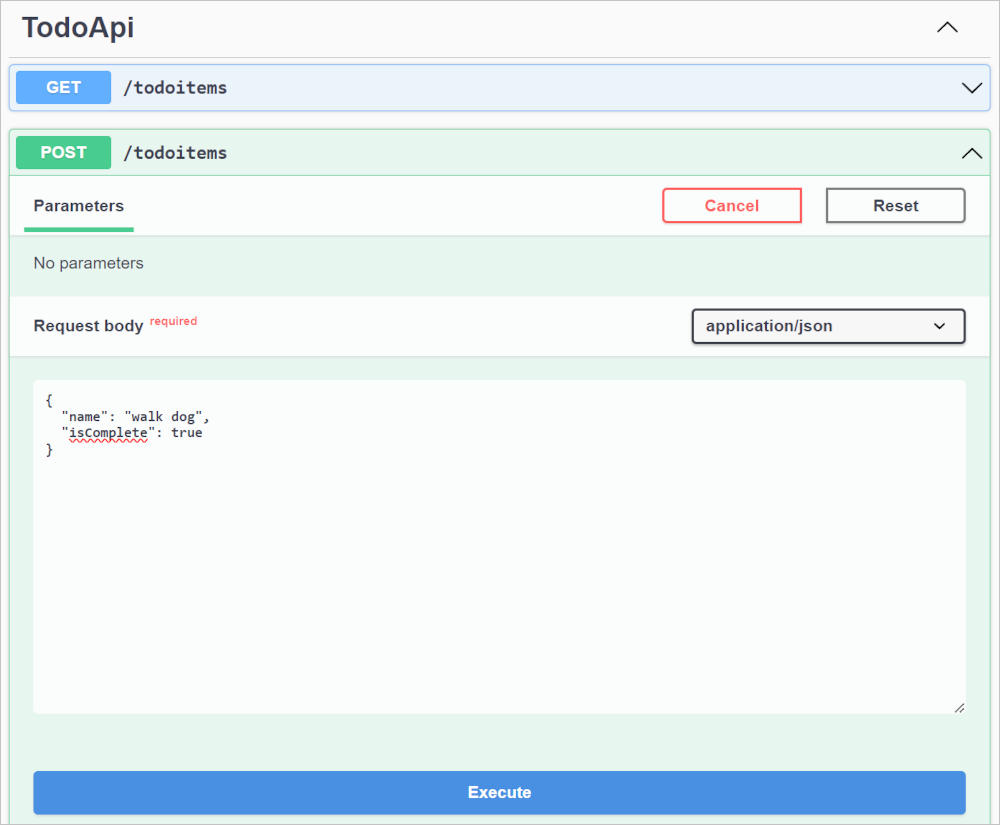
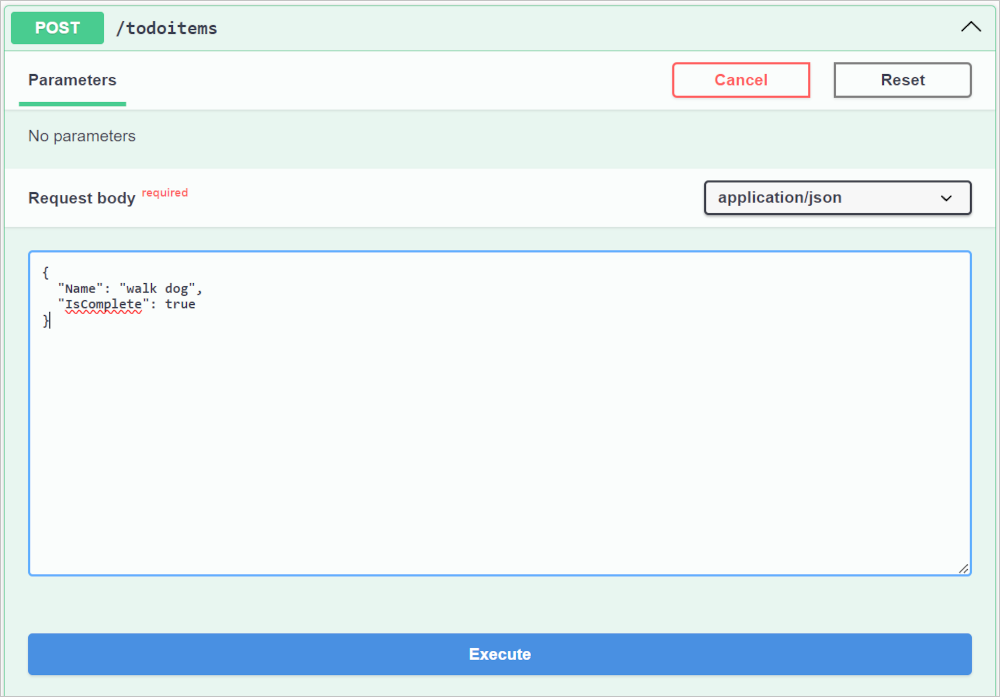
Rewrote and recoded for NSwag instead of Swashbuckle plus updated art

Changed region(s): [[0.0, 0.0, 1.0, 1.0], [0.062, 0.4821, 0.217, 0.5423], [0.93, 0.0, 0.961, 0.0301]]

diff --git a/aspnetcore/tutorials/min-web-api/samples/8.x/todo_SwaggerVersion/Program.cs b/aspnetcore/tutorials/min-web-api/samples/8.x/todo_SwaggerVersion/Program.cs
@@ -12,8 +12,7 @@ app.Run();
 // <snippet_all>
 // <snippet_swagger_add_service>
 // <snippet_swagger_using_statements>
-using Microsoft.OpenApi.Models;
-using Swashbuckle.AspNetCore.Swagger;
+using NSwag.AspNetCore;
 // </snippet_swagger_using_statements>
 using Microsoft.EntityFrameworkCore;
 
@@ -22,18 +21,26 @@ builder.Services.AddDbContext<TodoDb>(opt => opt.UseInMemoryDatabase("TodoList")
 builder.Services.AddDatabaseDeveloperPageExceptionFilter();
 
 builder.Services.AddEndpointsApiExplorer();
-builder.Services.AddSwaggerGen(config =>
+builder.Services.AddOpenApiDocument(config =>
 {
-    config.SwaggerDoc("v1", new OpenApiInfo { Title = "TodoAPI", Version = "v1" });
+    config.DocumentName = "TodoAPI";
+    config.Title = "TodoAPI v1";
+    config.Version = "v1";
 });
 // <snippet_swagger_enable_middleware>
 var app = builder.Build();
 // </snippet_swagger_add_service>
-app.UseSwagger();
-app.UseSwaggerUI(config =>
+if (app.Environment.IsDevelopment())
 {
-    config.SwaggerEndpoint("/swagger/v1/swagger.json", "TodoAPI v1");
-});
+    app.UseOpenApi();
+    app.UseSwaggerUi(config =>
+    {
+        config.DocumentTitle = "TodoAPI";
+        config.Path = "/swagger";
+        config.DocumentPath = "/swagger/{documentName}/swagger.json";
+        config.DocExpansion = "list";
+    });
+}
 // </snippet_swagger_enable_middleware>
 // <snippet_get>
 app.MapGet("/todoitems", async (TodoDb db) =>

diff --git a/aspnetcore/tutorials/min-web-api/samples/8.x/todoDTO_SwaggerVersion/Program.cs b/aspnetcore/tutorials/min-web-api/samples/8.x/todoDTO_SwaggerVersion/Program.cs
@@ -1,6 +1,5 @@
 // <snippet_all>
-using Microsoft.OpenApi.Models;
-using Swashbuckle.AspNetCore.Swagger;
+using NSwag.AspNetCore;
 using Microsoft.EntityFrameworkCore;
 
 var builder = WebApplication.CreateBuilder(args);
@@ -8,18 +7,26 @@ builder.Services.AddDbContext<TodoDb>(opt => opt.UseInMemoryDatabase("TodoList")
 builder.Services.AddDatabaseDeveloperPageExceptionFilter();
 
 builder.Services.AddEndpointsApiExplorer();
-builder.Services.AddSwaggerGen(config =>
+builder.Services.AddOpenApiDocument(config =>
 {
-    config.SwaggerDoc("v1", new OpenApiInfo { Title = "TodoAPI", Version = "v1" });
+    config.DocumentName = "TodoAPI";
+    config.Title = "TodoAPI v1";
+    config.Version = "v1";
 });
 
 var app = builder.Build();
 
-app.UseSwagger();
-app.UseSwaggerUI(config =>
+if (app.Environment.IsDevelopment())
 {
-    config.SwaggerEndpoint("/swagger/v1/swagger.json", "TodoAPI v1");
-});
+    app.UseOpenApi();
+    app.UseSwaggerUi(config =>
+    {
+        config.DocumentTitle = "TodoAPI";
+        config.Path = "/swagger";
+        config.DocumentPath = "/swagger/{documentName}/swagger.json";
+        config.DocExpansion = "list";
+    });
+}
 
 // <snippet_group>
 RouteGroupBuilder todoItems = app.MapGroup("/todoitems");

diff --git a/aspnetcore/tutorials/min-web-api/samples/8.x/todoGroup_SwaggerVersion/Program.cs b/aspnetcore/tutorials/min-web-api/samples/8.x/todoGroup_SwaggerVersion/Program.cs
@@ -1,6 +1,5 @@
 // <snippet_all>
-using Microsoft.OpenApi.Models;
-using Swashbuckle.AspNetCore.Swagger;
+using NSwag.AspNetCore;
 using Microsoft.EntityFrameworkCore;
 
 var builder = WebApplication.CreateBuilder(args);
@@ -8,18 +7,26 @@ builder.Services.AddDbContext<TodoDb>(opt => opt.UseInMemoryDatabase("TodoList")
 builder.Services.AddDatabaseDeveloperPageExceptionFilter();
 
 builder.Services.AddEndpointsApiExplorer();
-builder.Services.AddSwaggerGen(config =>
+builder.Services.AddOpenApiDocument(config =>
 {
-    config.SwaggerDoc("v1", new OpenApiInfo { Title = "TodoAPI", Version = "v1" });
+    config.DocumentName = "TodoAPI";
+    config.Title = "TodoAPI v1";
+    config.Version = "v1";
 });
 
 var app = builder.Build();
 
-app.UseSwagger();
-app.UseSwaggerUI(config =>
+if (app.Environment.IsDevelopment())
 {
-    config.SwaggerEndpoint("/swagger/v1/swagger.json", "TodoAPI v1");
-});
+    app.UseOpenApi();
+    app.UseSwaggerUi(config =>
+    {
+        config.DocumentTitle = "TodoAPI";
+        config.Path = "/swagger";
+        config.DocumentPath = "/swagger/{documentName}/swagger.json";
+        config.DocExpansion = "list";
+    });
+}
 
 // <snippet_group>
 var todoItems = app.MapGroup("/todoitems");

diff --git a/aspnetcore/tutorials/min-web-api.md b/aspnetcore/tutorials/min-web-api.md
@@ -228,23 +228,23 @@ This tutorial uses [Endpoints Explorer and .http files](xref:test/http-files#use
 
 ## Create API testing UI with Swagger
 
-To test the API, this tutorial utilizes the .NET package [Swashbuckle.AspNetCore](https://www.nuget.org/packages/Swashbuckle.AspNetCore), which integrates Swagger tools for generating a testing UI adhering to the OpenAPI specification:
+To test the API, this tutorial utilizes the .NET package [NSwag.AspNetCore](https://www.nuget.org/packages/NSwag.AspNetCore/), which integrates Swagger tools for generating a testing UI adhering to the OpenAPI specification:
 
-* Swashbuckle: A .NET library that integrates Swagger directly into ASP.NET Core applications, providing middleware and configuration.
+* NSwag: A .NET library that integrates Swagger directly into ASP.NET Core applications, providing middleware and configuration.
 * Swagger: A set of open-source tools such as OpenAPIGenerator and SwaggerUI that generate API testing pages that follow the OpenAPI specification.
 * OpenAPI specification: A document that describes the capabilities of the API, based on the XML and attribute annotations within the controllers and models.
 
-For more information on OpenAPI and Swagger, see <xref:tutorials/web-api-help-pages-using-swagger>.
+For more information on OpenAPI and NSwag, see <xref:tutorials/web-api-help-pages-using-swagger>.
 
 ### Install Swagger tooling
 
 * Run the following command:
 
   ```dotnetcli
-  dotnet add package Swashbuckle.AspNetCore
+  dotnet add package NSwag.AspNetCore
   ```
 
-The previous command adds the Swashbuckle.AspNetCore package, which contains tools to generate Swagger documents and UI.
+The previous command adds the NSwag.AspNetCore package, which contains tools to generate Swagger documents and UI.
 
 ### Configure Swagger middleware
 
@@ -259,8 +259,7 @@ The previous command adds the Swashbuckle.AspNetCore package, which contains too
 In the previous code:
 
   * `builder.Services.AddEndpointsApiExplorer();`: Enables the API Explorer, which is a service that provides metadata about the HTTP API. The API Explorer is used by Swagger to generate the Swagger document.
-  * `builder.Services.AddSwaggerGen(config => {...});`: Adds and configures the Swagger generator to the application services.
-  * `config.SwaggerDoc("v1", new OpenApiInfo { Title = "TodoAPI", Version = "v1" });`: Inside the `AddSwaggerGen method`, this line creates a new Swagger document and specifies the OpenAPI details for the API. The `new OpenApiInfo { Title = "TodoAPI", Version = "v1" }` argument provides more information about the API, such as its title and version. For information on providing more robust API details, see <xref:tutorials/get-started-with-swashbuckle#api-info-and-description>
+  * `builder.Services.AddOpenApiDocument(config => {...});`: Adds the Swagger OpenAPI document generator to the application services and configures it to provides more information about the API, such as its title and version. For information on providing more robust API details, see <xref:tutorials/get-started-with-nswag#customize-api-documentation>
 
 * Add the following highlighted code to the next line after `app` is defined in line `var app = builder.Build();`
 
